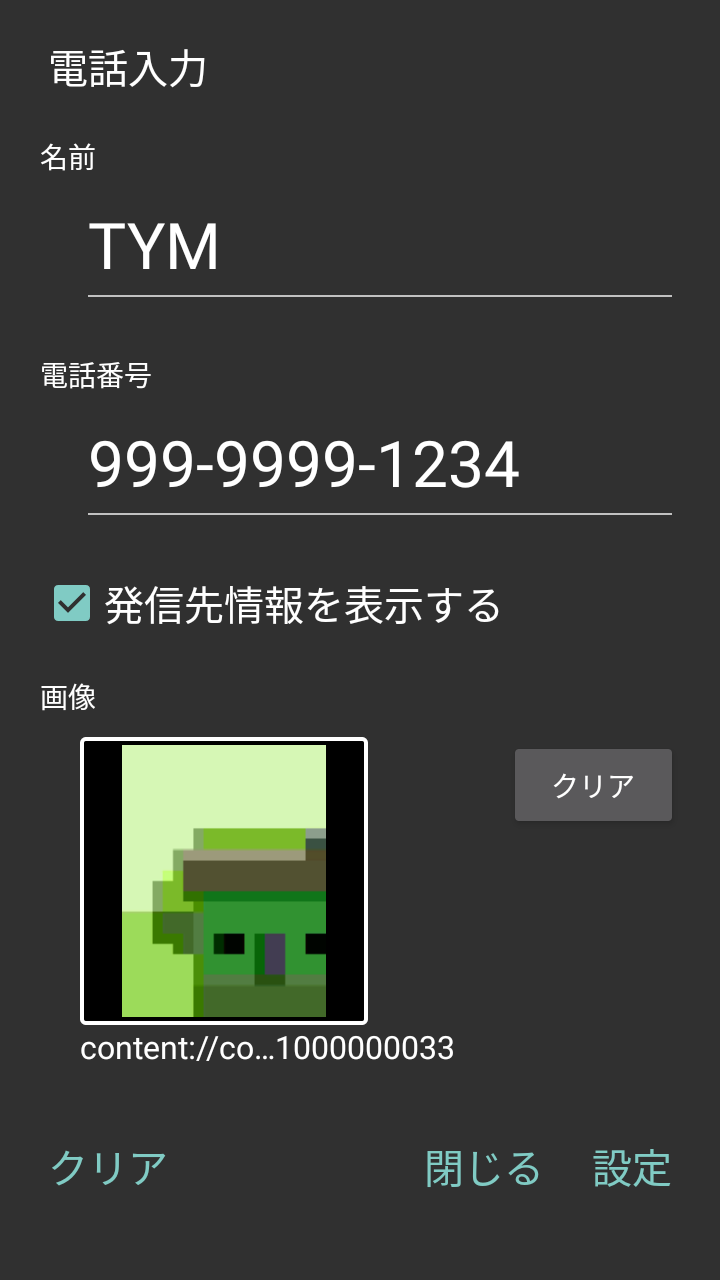
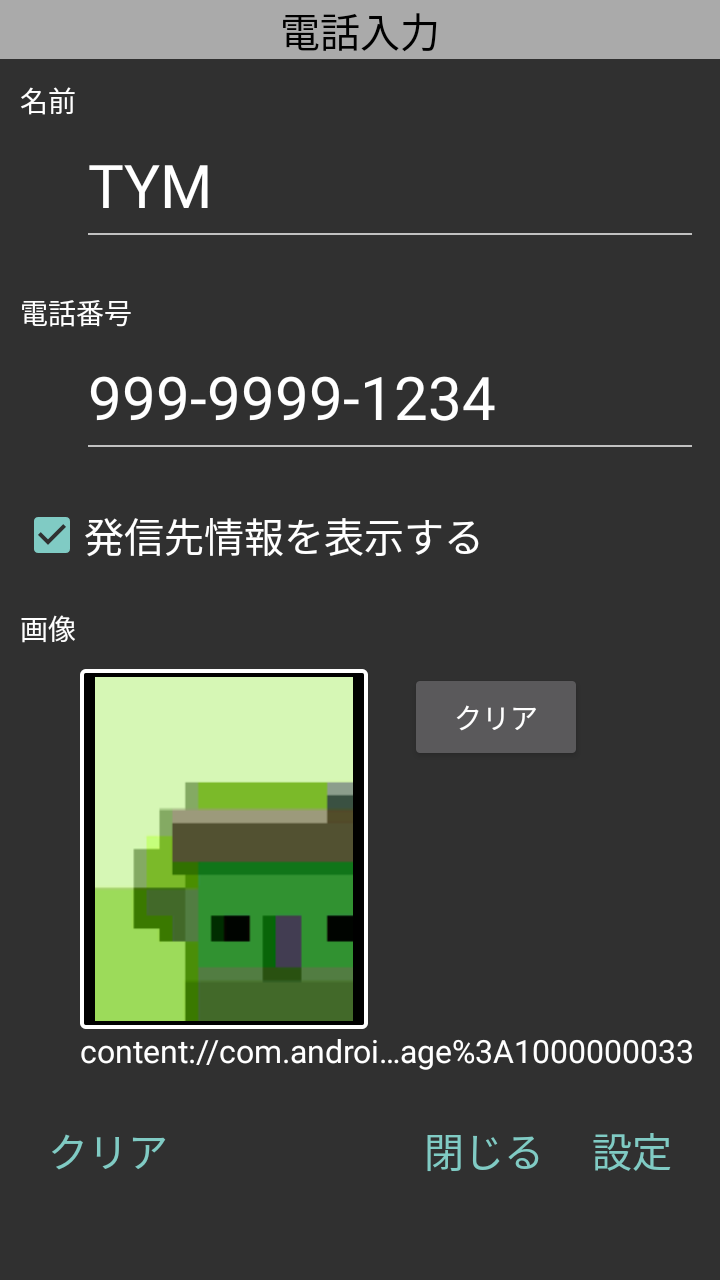
Add files via upload

diff --git a/README.md b/README.md
@@ -8,6 +8,12 @@
 
 # 更新の内容
 
+## 2023.01.13 (14, 1.4.1)
+
+- 設定モード画面のデザインを調整しました。
+- スワイプでタブを切り替えられるようにしました。
+- その他，軽微な修正を行いました。
+
 ## 2023.01.06 (13, 1.3.1)
 
 - アイコンを調整しました。
@@ -37,7 +43,7 @@
 【シンプルで出来ることが少ないホームアプリ】
 
 シニアの方に対して，出来ることを絞った状態でスマートフォンを利用しもらえるようにしました。
-３つのタブと，タブごとに９つの項目しかありません。
+３つのタブと，タブごとに９つの項目しかありません。タブはスワイプでも切り替えできます。
 設定は，シニアの方に渡される人だけが行えるように，少し特殊な操作が必要にしてあります。
 スマートフォンの縦向きで利用することを想定しています。
 
